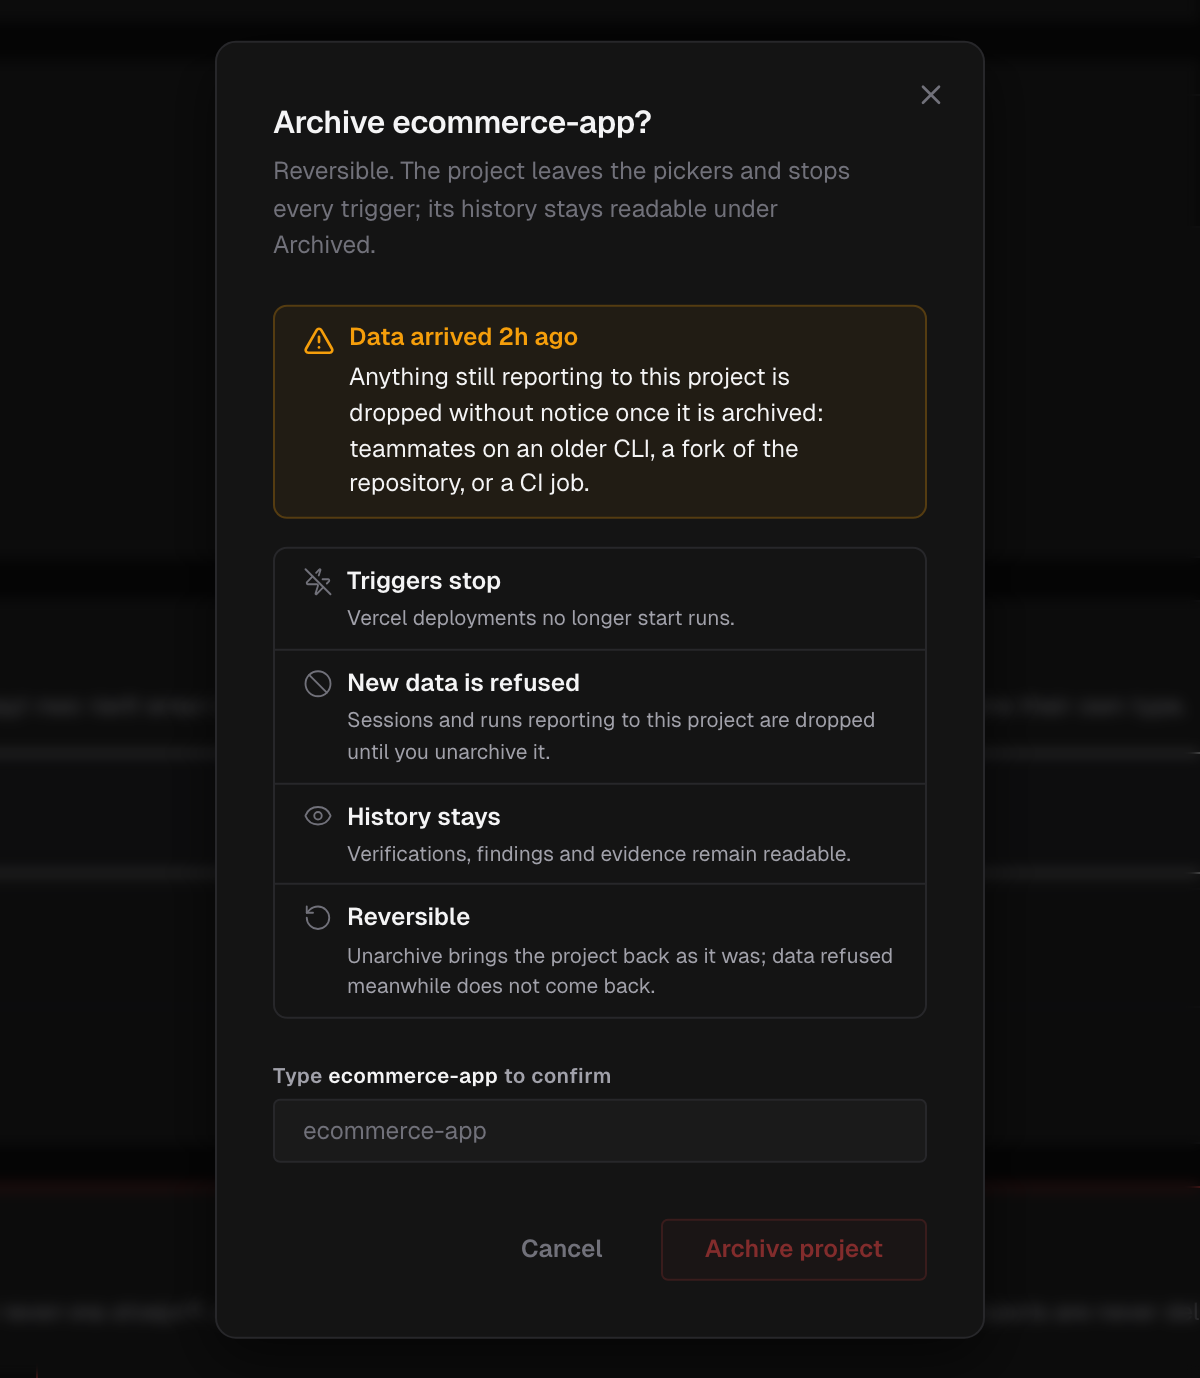
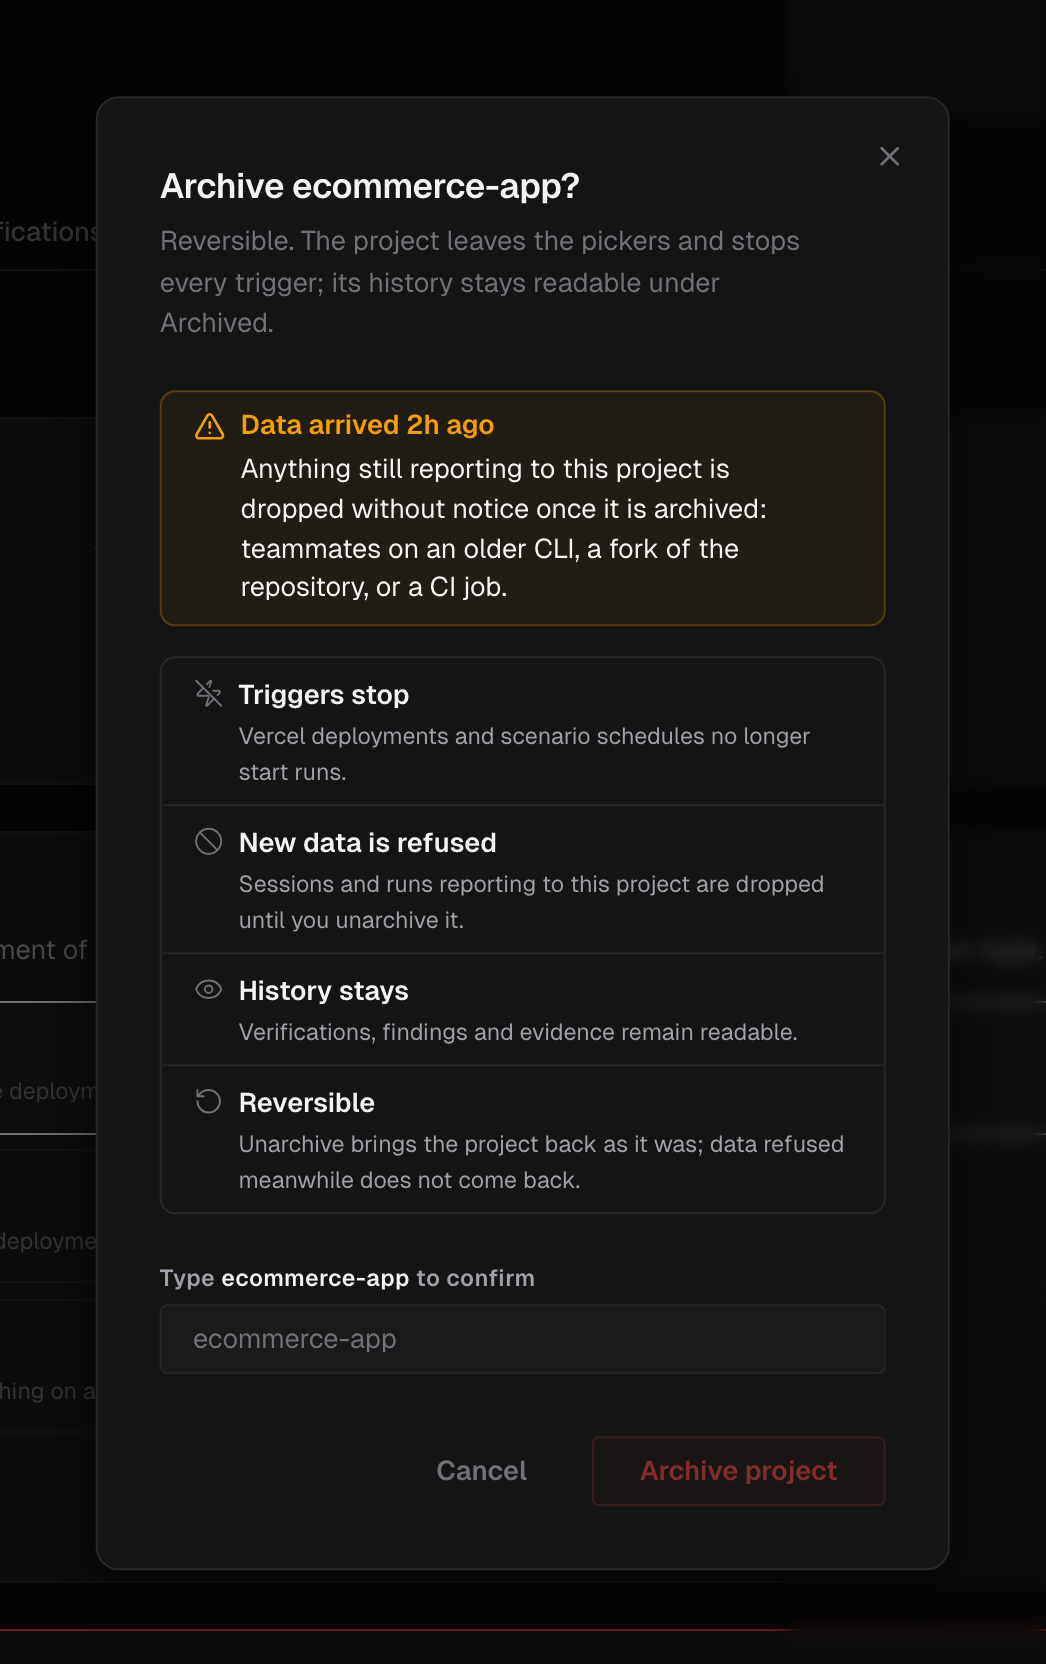
docs(console): run a scenario on a schedule; the Schedule trigger, the skipped row and the schedules in the delete dialogs (#44)

diff --git a/AGENTS.md b/AGENTS.md
@@ -25,7 +25,7 @@ IronBee reviews pull requests and verifies code changes the way a QA engineer wo
 **The account's switches.** Code review, the code wiki and code security each have a switch for the whole account at the top of the product's account settings page (**Code review for this account**, **Code wiki for this account**, **Code security for this account**), on by default, and a switch on each repository. A product runs on a repository only while both are on. Code review on the self-hosted runner is the exception: the runner reviews a repository whose own switch is off, and the account's switch off refuses every registration and run of it. Turning the account's switch off cancels nothing, keeps posts, pages and records, and changes no repository's switch; turning it on queues nothing by itself.
 
 **Platform verification runs.** IronBee runs the verification on its own infrastructure.
-- A run is started by the IronBee GitHub Action, the IronBee GitLab component, the IronBee Bitbucket Pipe, the Vercel integration, the Netlify extension, `ironbee verify`, or **Run instant verification** in the console.
+- A run is started by the IronBee GitHub Action, the IronBee GitLab component, the IronBee Bitbucket Pipe, the Vercel integration, the Netlify extension, `ironbee verify`, **Run instant verification** or **Run scenario** in the console, or a scenario's schedule.
 - A Vercel or Netlify project is verified only after it's enabled with a verification type, **Web** or **API**; **None** starts nothing. Installing the GitHub App makes every repository it covers a project with the type **None**, and so does picking a repository in a GitLab group or a Bitbucket workspace.
 - Results appear in three places:
   - on the pull request or merge request, for a run bound to a connected repository: a check (a pipeline status on GitLab, a build status on Bitbucket), an inline comment on each finding with a suggested fix, and a summary comment. The GitHub Action, the GitLab component and the Bitbucket Pipe then leave their own report comment out
@@ -40,7 +40,7 @@ IronBee reviews pull requests and verifies code changes the way a QA engineer wo
 - each GitHub, GitLab or Bitbucket project's code wiki: pages IronBee writes from the default branch and keeps current, with its settings. An owner or admin can share a wiki through a public link, which opens the wiki alone at `console.ironbee.ai/share/code-wiki/...` with no account
 - each GitHub, GitLab or Bitbucket project's code security: scheduled scans of the default branch, their records and runs, with its settings. Off until an owner or admin turns it on for a repository, credit-charged, and seen by owners and admins only. It posts nothing on the pull request. One scan runs at a time per account, oldest waiting first; at most two free follow-up runs come after a scan. Its records, decisions and runs can also be read and a scan started through the code security API
 - each project's verification runs, with the evidence (recording, screenshots, actions, network, traces, logs) and a live view while a run is in progress
-- each project's scenarios: flows written in plain words, run against an environment one action at a time, with their editor and their runs
+- each project's scenarios: flows written in plain words, run against an environment one action at a time, with their editor, their runs and their schedules. A schedule runs a scenario on a timer (hourly, daily or weekly, in a time zone) against one environment with its inputs; each run is an ordinary, credit-charged scenario run with the **Schedule** trigger. At most 50 per project, one hour apart at least; a time that comes while the schedule's previous run is going is skipped and listed as a cancelled run. A schedule sends no notifications
 - project settings: environments, variables, secrets
 - **Settings > Usage**: the team's credits this period, by product, day, project and run, the credits it bought, and the rate card. On Free and Team, owners and billing admins buy credits there with **Add credits**
 - **Settings > BYOM**: the account's own model endpoint, its connection test and its last failure
@@ -58,6 +58,7 @@ Use these terms. When you describe something on screen, quote the console label 
 | session | run, task | CLI only: one AI client session |
 | activity | step, action | CLI only: one agent turn. In the console scenario docs, **action** (an Act, Assert, Extract or Wait row) and **Step** (the grouping row) are console labels, so use them there |
 | scenario | test case, script, flow (as a noun for the feature) | Console: a saved flow in a project, run against an environment. CLI: a saved scenario in `.ironbee/scenarios/`. When both could apply, say which one |
+| schedule | cron, cron job, timer, recurring job | Console: a scenario run on a timer against an environment, on the scenario's **Schedules** tab. Say "time" for one of its due times, and "turn on" and "turn off" for its switch. Don't show or name crons |
 | verdict | outcome | The CLI's verdict (`pass`, `fail`, `not_applicable`). In the console the column is **Result** |
 | fix | patch, correction | The agent's self-correction. **Suggested fixes** is a console tab label |
 | code review | PR review, review bot | IronBee's review of a pull request. "Review" alone is fine once the context is clear |
@@ -79,7 +80,8 @@ Use these terms. When you describe something on screen, quote the console label 
 Console labels, quoted verbatim:
 - **Status:** Created, Queued, Starting, Running, Completed, Failed, Cancelled, Interrupted, Unknown
 - **Result:** Pass, Fail, Not applicable, Soft fail, Unknown
-- **Trigger:** Vercel, Netlify, GitHub Actions, GitLab CI, Bitbucket Pipelines, API, CLI, Console
+- **Trigger:** Vercel, Netlify, GitHub Actions, GitLab CI, Bitbucket Pipelines, API, CLI, Console, Schedule
+- **Scenario schedule:** frequencies Hourly, Daily, Weekly. Columns Environment, When, Next Run, Latest Run, Enabled. **Due now** while a run waits to start
 - **Scenario row kinds:** Act, Assert, Extract, Wait, Step, Import. Sections: Setup, Main, Teardown
 - **Code review status:** Reviewing, Changes requested, Passed, Could not complete, Cancelled, Retracted, Reviewed, Not reviewed
 - **Finding severity:** Critical, High, Medium, Low
@@ -138,7 +140,7 @@ Console labels, quoted verbatim:
 - **Integrations:** GitHub App, GitHub Enterprise, GitLab, GitLab Self-Managed and Dedicated, Bitbucket, Vercel, Netlify, then the GitHub Action, GitLab component and Bitbucket Pipe groups
 - **Features:** a tab that opens a menu (`menu` in `docs.json`) of five items. **Code review** holds the code review pages: overview, on the pull request (GitHub), on the merge request (GitLab), on Bitbucket, then the console pages (pull requests, rules and memories, settings), then the self-hosted runner (overview, on GitHub, on GitLab, on Bitbucket). **Code security** holds its own pages (overview, how a scan works, API), then its console pages under **In the console** (scans, records and runs, settings), like code review's. **BYOM** holds its own pages, then its console page under **In the console**, like code security. **Code wiki** and **Verification** are shortcuts: each lists one page, that feature's first page in the **Console** tab, and nothing else
 - **CLI:** get started, concepts, guides, configuration, advanced, AI clients
-- **Console:** projects, code wiki (the wiki and its settings), verifications, scenarios (scenarios, editor, references and imports, runs), search, settings
+- **Console:** projects, code wiki (the wiki and its settings), verifications, scenarios (scenarios, editor, references and imports, runs, schedules), search, settings
 
 The shortcuts depend on two things, so keep both:
 - In `docs.json` the **Features** tab comes last, after **Console**. Mintlify opens a page under the first tab that lists it, so a shortcut's page opens under **Console**, with the console's sidebar. `style.css` draws the tab after **Integrations** with `order`

diff --git a/DOCUMENTATION_STRUCTURE.md b/DOCUMENTATION_STRUCTURE.md
@@ -303,6 +303,7 @@ Current structure as of the `docs.json` navigation configuration.
 | `console/scenario-editor.mdx` | Write a scenario | ✅ |
 | `console/scenario-references.mdx` | Inputs, references and imports | ✅ |
 | `console/scenario-runs.mdx` | Run a scenario | ✅ |
+| `console/scenario-schedules.mdx` | Run a scenario on a schedule | ✅ |
 
 ### Search
 
